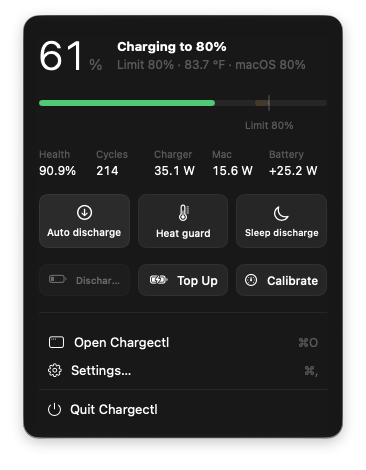
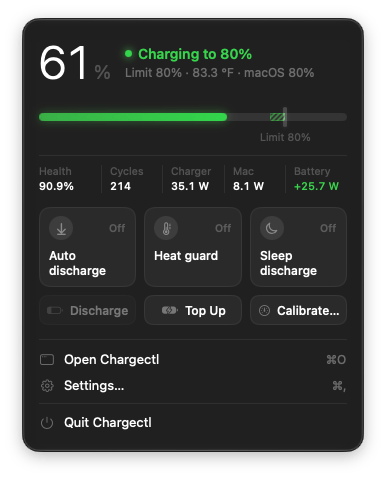
fix(setup): remove the setup window's bottom strip and refresh the README (#22)
## What and why

The README still showed the app from before the 0.2.0 redesign and said
nothing about widgets.

- **New screenshots.** Every page is captured from the running app in
light and dark: Overview, Control, History, Logs and Settings, plus the
menu bar panel and the first setup step. GitHub shows the version that
matches the reader's theme.
- **A Widgets section.** It has a collage drawn from the real widget
views, a table of each kind with its sizes and what it shows, how to add
widgets, and the Control Center controls.
- **A fix for the setup window.** In 0.2.0 it has a grey strip along the
bottom. The window was a title bar taller than its content, because the
content was laid out under the title bar. `WelcomeView` now lays out
below the title bar. This change has a CHANGELOG entry.
- **Repeatable screenshots.** `scripts/screenshots.sh` takes every page
and the setup window from a Debug build with sample data (`--demo`), so
the helper is never touched. Debug builds have a new `--screenshots`
option that opens windows at 1240 × 880 on the sharpest screen.
`--render-design` now draws at 2x without a title bar and includes the
`readme-widgets` collage. CONTRIBUTING.md and AGENTS.md say how to
update the pictures.

## How it was verified

```sh
./scripts/check.sh   # format, build, test, shell, workflows, cask: all ok
./scripts/screenshots.sh <Debug app> <folder>   # 12 pictures, light and dark
```
[…]

diff --git a/App/Debug/DesignRender.swift b/App/Debug/DesignRender.swift
@@ -104,6 +104,10 @@
                     AnyView(MenuContent(model: Sample.model(service: .notInstalled)))
                 })
             shots.append(Shot(name: "menu-bar-icons", size: CGSize(width: 520, height: 300)) { AnyView(IconSheet()) })
+            shots.append(
+                Shot(name: "readme-widgets", size: WidgetSheet.collageSize) {
+                    AnyView(WidgetSheet(entry: .sample(.charging), kinds: true, collage: true))
+                })
             for sample in BatteryEntry.Sample.allCases {
                 shots.append(
                     Shot(name: "widgets-charge-\(sample.rawValue)", size: CGSize(width: 1240, height: 860)) {
@@ -126,8 +130,13 @@
             ]
             for (name, step, service) in setup {
                 shots.append(
-                    Shot(name: name, size: WelcomeView.size) {
-                        AnyView(WelcomeView(model: Sample.model(service: service), initialStep: step))
+                    Shot(name: name, size: CGSize(width: WelcomeView.size.width, height: WelcomeView.size.height + 32))
+                    {
+                        // Below the real window's 32-point title bar, as in the app.
+                        AnyView(
+                            WelcomeView(model: Sample.model(service: service), initialStep: step)
+                                .padding(.top, 32)
+                                .background(Theme.window))
                     })
             }
             return shots
@@ -137,9 +146,9 @@
             let isPanel = shot.name.hasPrefix("panel")
             let window = NSWindow(
                 contentRect: NSRect(origin: CGPoint(x: -20000, y: -20000), size: shot.size),
-                styleMask: [.titled, .fullSizeContentView], backing: .buffered, defer: false)
-            window.titlebarAppearsTransparent = true
-            window.titleVisibility = .hidden
+                // No title bar, so the content is exactly the shot's size; the welcome shots add
+                // the title bar's space themselves.
+                styleMask: [.borderless], backing: .buffered, defer: false)
             window.appearance = NSAppearance(named: dark ? .darkAqua : .aqua)
             let root = shot.view()
                 .frame(width: shot.size.width, height: isPanel ? nil : shot.size.height, alignment: .top)
@@ -163,7 +172,14 @@
             RunLoop.main.run(until: Date.now.addingTimeInterval(shot.name.hasPrefix("welcome") ? 2.6 : 1.6))
             guard let view = window.contentView else { return }
             let bounds = view.bounds
-            guard let bitmap = view.bitmapImageRepForCachingDisplay(in: bounds) else { return }
+            // 2x whatever screen the window would be on, so the files are sharp on Retina displays.
+            guard
+                let bitmap = NSBitmapImageRep(
+                    bitmapDataPlanes: nil, pixelsWide: Int(bounds.width * 2), pixelsHigh: Int(bounds.height * 2),
+                    bitsPerSample: 8, samplesPerPixel: 4, hasAlpha: true, isPlanar: false, colorSpaceName: .deviceRGB,
+                    bytesPerRow: 0, bitsPerPixel: 0)
+            else { return }
+            bitmap.size = bounds.size
             view.cacheDisplay(in: bounds, to: bitmap)
             if let data = bitmap.representation(using: .png, properties: [:]) { try? data.write(to: file) }
             window.orderOut(nil)
@@ -175,7 +191,15 @@
         let entry: BatteryEntry
         let kinds: Bool
         var portrait = false
+        /// The README's picture: one of each kind, in the sizes that suit it.
+        var collage = false
         @Environment(\.colorScheme) private var scheme
+
+        /// macOS's desktop grid: a medium widget is two small ones and 24 points across, a large
+        /// one two small ones and 42 points down.
+        private static let across: CGFloat = 24
+        private static let down: CGFloat = 42
+        static let collageSize = CGSize(width: 364 * 3 + across * 2 + 96, height: 382 + down + 170 + 96)
 
         var body: some View {
             ZStack(alignment: .topLeading) {
@@ -184,7 +208,10 @@
                         ? [Color(red: 0.17, green: 0.16, blue: 0.3), Color(red: 0.36, green: 0.22, blue: 0.24)]
                         : [Color(red: 0.75, green: 0.84, blue: 0.96), Color(red: 0.97, green: 0.85, blue: 0.8)],
                     startPoint: .topLeading, endPoint: .bottomTrailing)
-                if portrait {
+                if collage {
+                    collageGrid.padding(48)
+                        .frame(maxWidth: .infinity, maxHeight: .infinity)
+                } else if portrait {
                     tile(.charge, .systemExtraLargePortrait).padding(28)
                 } else if kinds {
                     kindsGrid.padding(28)
@@ -192,6 +219,7 @@
                     chargeSizes.padding(28)
                 }
             }
+            .clipShape(RoundedRectangle(cornerRadius: collage ? 28 : 0, style: .continuous))
         }
 
         private var chargeSizes: some View {
@@ -205,6 +233,33 @@
                     tile(.charge, .systemExtraLarge)
                 }
                 tile(.charge, .systemLarge)
+            }
+        }
+
+        private var collageGrid: some View {
+            VStack(alignment: .leading, spacing: Self.down) {
+                HStack(alignment: .top, spacing: Self.across) {
+                    tile(.charge, .systemLarge)
+                    VStack(spacing: Self.down) {
+                        tile(.controls, .systemMedium)
+                        tile(.fullBy, .systemMedium)
+                    }
+                    VStack(spacing: Self.down) {
+                        HStack(spacing: Self.across) {
+                            tile(.ring, .systemSmall)
+                            tile(.power, .systemSmall)
+                        }
+                        HStack(spacing: Self.across) {
+                            tile(.health, .systemSmall)
+                            tile(.timeLeft, .systemSmall)
+                        }
+                    }
+                }
+                HStack(spacing: Self.across) {
+                    tile(.today, .systemMedium)
+                    tile(.charge, .systemMedium)
+                    tile(.health, .systemMedium)
+                }
             }
         }
 

diff --git a/App/AppDelegate.swift b/App/AppDelegate.swift
@@ -61,7 +61,11 @@ enum Dashboard {
     static func show(_ window: NSWindow? = nil) {
         NSApp.setActivationPolicy(.regular)
         NSApp.activate()
-        (window ?? Self.window)?.makeKeyAndOrderFront(nil)
+        let window = window ?? Self.window
+        #if DEBUG
+            if let window { ScreenshotLayout.place(window) }
+        #endif
+        window?.makeKeyAndOrderFront(nil)
     }
 
     /// Back to a menu bar–only app once no window of ours is open.
@@ -86,3 +90,26 @@ enum Dashboard {
         NSApp.terminate(nil)
     }
 }
+
+#if DEBUG
+    /// Debug builds started with `--screenshots` (scripts/screenshots.sh): each window opens in the
+    /// middle of the sharpest screen, and the dashboard at 1240 × 880 points, so the README's
+    /// screenshots come out the same every time.
+    enum ScreenshotLayout {
+        static let isOn = CommandLine.arguments.contains("--screenshots")
+        static let dashboardSize = NSSize(width: 1240, height: 880)
+
+        static func place(_ window: NSWindow) {
+            guard isOn, let screen = NSScreen.screens.max(by: { $0.backingScaleFactor < $1.backingScaleFactor })
+            else { return }
+            var frame = window.frame
+            if window.identifier?.rawValue.hasPrefix(WindowID.dashboard) == true {
+                frame.size = window.frameRect(forContentRect: NSRect(origin: .zero, size: dashboardSize)).size
+            }
+            let visible = screen.visibleFrame
+            frame.origin = NSPoint(
+                x: (visible.midX - frame.width / 2).rounded(), y: (visible.midY - frame.height / 2).rounded())
+            window.setFrame(frame, display: true)
+        }
+    }
+#endif

diff --git a/App/Welcome/WelcomeView.swift b/App/Welcome/WelcomeView.swift
@@ -15,6 +15,7 @@ struct WelcomeView: View {
         case done
     }
 
+    /// The content below the title bar; the window adds the title bar's height.
     static let size = CGSize(width: 640, height: 572)
 
     let model: AppModel
@@ -57,7 +58,6 @@ struct WelcomeView: View {
             .ignoresSafeArea()
         }
         .tint(Theme.accent)
-        .ignoresSafeArea(edges: .top)
         .onAppear { Dashboard.show(Dashboard.window(WindowID.welcome)) }
         .onDisappear { Dashboard.didClose() }
     }
@@ -89,7 +89,8 @@ struct WelcomeView: View {
                 .padding(.top, 26)
                 .settleIn(2)
         }
-        .padding(.top, 46)
+        // Below the title bar, so 46 points from the top of the window.
+        .padding(.top, 14)
     }
 
     private var title: String {

diff --git a/README.md b/README.md
@@ -19,6 +19,7 @@
   <a href="#quickstart">Quickstart</a> ·
   <a href="#features">Features</a> ·
   <a href="#screenshots">Screenshots</a> ·
+  <a href="#widgets">Widgets</a> ·
   <a href="#how-it-works">How it works</a> ·
   <a href="#install-and-uninstall">Install</a> ·
   <a href="CONTRIBUTING.md">Contributing</a> ·
@@ -26,7 +27,10 @@
 </p>
 
 <p align="center">
-  <img alt="Chargectl's Overview page: the charge and limit, live power flow, the charger, battery health and the charge control state" src="docs/assets/screenshots/overview.png" width="880">
+  <picture>
+    <source media="(prefers-color-scheme: dark)" srcset="docs/assets/screenshots/overview-dark.png">
+    <img alt="Chargectl's Overview page: the charge against the limit, power flowing from the charger to the Mac and the battery, battery health, the charge over the last 6 hours and recent activity" src="docs/assets/screenshots/overview-light.png" width="880">
+  </picture>
 </p>
 
 ---
@@ -92,40 +96,87 @@ switch options and drag the white marker to change the limit.
 
 ## Screenshots
 
-<table>
-  <tr>
-    <td align="center" valign="top">
-      <img alt="Menu bar panel with the charge, live power and quick switches" src="docs/assets/screenshots/menu-bar.png" width="280"><br>
-      <b>Menu bar</b><br>
-      <sub>Charge, live power and quick switches. Drag the white marker to change the limit.</sub>
-    </td>
-    <td align="center" valign="top">
-      <img alt="Control page with the charge limit slider, sailing range, heat and sleep options" src="docs/assets/screenshots/control.png" width="472"><br>
-      <b>Control</b><br>
-      <sub>Limit, sailing range, what happens above the limit, heat and sleep.</sub>
-    </td>
-  </tr>
-</table>
+Every page comes in light and dark; GitHub shows the one that matches your theme.
 
 <table>
   <tr>
     <td align="center" valign="top">
-      <img alt="History page with charge, temperature and power charts" src="docs/assets/screenshots/history.png" width="240"><br>
+      <picture>
+        <source media="(prefers-color-scheme: dark)" srcset="docs/assets/screenshots/control-dark.png">
+        <img alt="Control page: the charge limit on a slider with the sailing range, Full by, charge control, heat and the MagSafe light" src="docs/assets/screenshots/control-light.png" width="420">
+      </picture><br>
+      <b>Control</b><br>
+      <sub>The limit on a slider with the sailing range drawn in, Full by, heat and the MagSafe light.</sub>
+    </td>
+    <td align="center" valign="top">
+      <picture>
+        <source media="(prefers-color-scheme: dark)" srcset="docs/assets/screenshots/history-dark.png">
+        <img alt="History page: totals for the range, the charge chart, temperature, power and battery health over time" src="docs/assets/screenshots/history-light.png" width="420">
+      </picture><br>
       <b>History</b><br>
-      <sub>Charge, temperature and power for up to 24 hours.</sub>
+      <sub>Totals for the range, charge, temperature and power under one crosshair, and health over months.</sub>
     </td>
+  </tr>
+  <tr>
     <td align="center" valign="top">
-      <img alt="Logs page listing battery and Chargectl events" src="docs/assets/screenshots/logs.png" width="240"><br>
+      <picture>
+        <source media="(prefers-color-scheme: dark)" srcset="docs/assets/screenshots/logs-dark.png">
+        <img alt="Logs page: events grouped by day, with filters for battery, Chargectl and warnings, search and Copy" src="docs/assets/screenshots/logs-light.png" width="420">
+      </picture><br>
       <b>Logs</b><br>
-      <sub>Every battery change and every Chargectl action, filterable.</sub>
+      <sub>Every battery change and Chargectl action, by day, with filters, search (⌘F) and Copy.</sub>
     </td>
     <td align="center" valign="top">
-      <img alt="Settings page with menu bar, appearance, units and helper options" src="docs/assets/screenshots/settings.png" width="240"><br>
+      <picture>
+        <source media="(prefers-color-scheme: dark)" srcset="docs/assets/screenshots/settings-dark.png">
+        <img alt="Settings page: menu bar, appearance, notifications, the helper and updates" src="docs/assets/screenshots/settings-light.png" width="420">
+      </picture><br>
       <b>Settings</b><br>
-      <sub>Menu bar, appearance, units, the helper and uninstall.</sub>
+      <sub>Menu bar, appearance, notifications, the helper and automatic updates.</sub>
+    </td>
+  </tr>
+  <tr>
+    <td align="center" valign="top">
+      <img alt="Menu bar panel: the charge, the limit, health and live power, quick switches and jobs" src="docs/assets/screenshots/menu-bar.png" width="300"><br>
+      <b>Menu bar</b><br>
+      <sub>Charge, live power, quick switches and jobs. Drag the marker to change the limit.</sub>
+    </td>
+    <td align="center" valign="top">
+      <picture>
+        <source media="(prefers-color-scheme: dark)" srcset="docs/assets/screenshots/setup-dark.png">
+        <img alt="Setup window, first step: Welcome to Chargectl" src="docs/assets/screenshots/setup-light.png" width="380">
+      </picture><br>
+      <b>Setup</b><br>
+      <sub>Four short steps: welcome, install the helper, choose a limit, done.</sub>
     </td>
   </tr>
 </table>
+
+## Widgets
+
+<p align="center">
+  <picture>
+    <source media="(prefers-color-scheme: dark)" srcset="docs/assets/screenshots/widgets-dark.png">
+    <img alt="Chargectl widgets on the desktop: Charge in large and medium, Controls, Full by, Ring, Power, Health, Time left and Today" src="docs/assets/screenshots/widgets-light.png" width="880">
+  </picture>
+</p>
+
+Right-click the desktop, choose **Edit Widgets** and search for Chargectl. Each
+widget answers one question, and clicking one opens the matching page.
+
+| Widget | Sizes | Shows |
+| --- | --- | --- |
+| Charge | Small to Extra Large Portrait | The charge against your limit; larger sizes add the last hours, live power, and Top Up and Discharge |
+| Ring | Small | The charge as a ring that closes at your limit |
+| Power | Small, Medium | Watts from the charger, to the Mac and into the battery |
+| Health | Small, Medium | Battery health and cycles, and how health changed over months |
+| Today | Small, Medium | Time at 90% or more and on the charger, the lowest charge and the warmest moment |
+| Full by | Small, Medium | The next full charge and its days, with Skip and Change |
+| Controls | Small, Medium | The limit in 5% steps, Top Up and Discharge; Medium adds the charge control switch |
+| Time left | Small, Medium | How long until the limit, full or empty |
+
+Control Center has controls for charge control, Top Up, Discharge and Full by.
+Add them in Control Center › Edit Controls; each can also sit in the menu bar.
 
 ## How it works
 

diff --git a/CONTRIBUTING.md b/CONTRIBUTING.md
@@ -84,6 +84,21 @@ the build is signed ad hoc, as releases are.
 Changes to how charging is controlled must also be tried on a real MacBook.
 Say in the pull request which Mac and macOS version you used and what you saw.
 
+### Screenshots
+
+The README's pictures come from a Debug build with sample data, so they need no
+helper. Update them when the app's look changes:
+
+- **Pages and setup:** `./scripts/build.sh Debug`, then
+  `./scripts/screenshots.sh`. It writes every dashboard page and the first
+  setup step, in dark and light, to `docs/assets/screenshots`. Windows open on
+  your sharpest screen, so use a Retina display.
+- **Widgets:** `"$TMPDIR/Chargectl-DerivedData/Build/Products/Debug/Chargectl.app/Contents/MacOS/Chargectl" --render-design <folder> --only readme-widgets`,
+  then copy `readme-widgets-dark.png` and `readme-widgets-light.png` to
+  `docs/assets/screenshots/widgets-dark.png` and `widgets-light.png`.
+- **Menu bar panel:** run the Debug build with `--demo`, open the panel, press
+  ⌘⇧4 then Space, and click the panel. Save it as `menu-bar.png`.
+
 ## Commit messages and pull request titles
 
 This project uses [Conventional Commits](https://www.conventionalcommits.org/).

diff --git a/AGENTS.md b/AGENTS.md
@@ -46,6 +46,7 @@ newly matching skills before continuing. Human contributors do not need them.
 | Package a release zip | `./scripts/package.sh` |
 | Print the Homebrew cask | `./scripts/cask.sh <version> <sha256>` |
 | Check the cask as the tap's CI does | `./scripts/check.sh cask` |
+| Retake the README screenshots | `./scripts/screenshots.sh` (after `./scripts/build.sh Debug`; see CONTRIBUTING.md) |
 
 The build and test scripts regenerate the Xcode project from `project.yml`
 first, so edit `project.yml`, never the generated `.xcodeproj`.

diff --git a/CHANGELOG.md b/CHANGELOG.md
@@ -7,6 +7,11 @@ and this project adheres to [Semantic Versioning](https://semver.org/).
 
 ## [Unreleased]
 
+### Fixed
+
+- **The setup window no longer has a grey strip along its bottom.** The window
+  was a title bar taller than its content.
+
 ## [0.2.0] - 2026-11-08
 
 A redesigned app with widgets, Control Center controls and Full by. The root
